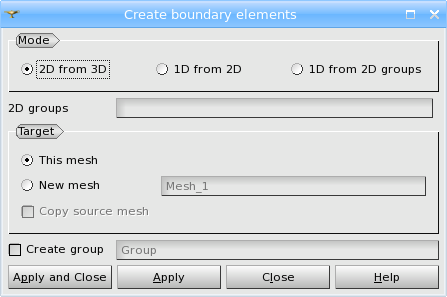
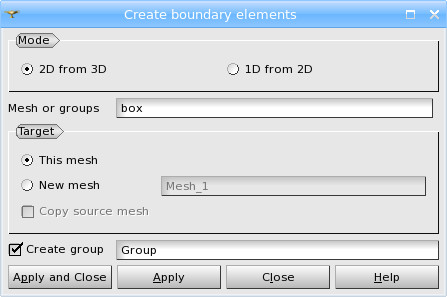
020749: EDF 1291 SMESH : Create 2D Mesh from 3D improvement / note 0011031

diff --git a/src/SMESHGUI/SMESH_msg_en.ts b/src/SMESHGUI/SMESH_msg_en.ts
@@ -5594,7 +5594,7 @@ It is impossible to read point coordinates from file</translation>
     </message>
     <message>
         <source>Groups</source>
-        <translation>2D groups</translation>
+        <translation>Mesh or groups</translation>
     </message>
     <message>
         <source>MODE</source>
@@ -5644,20 +5644,30 @@ It is impossible to read point coordinates from file</translation>
         <translation>%1 boundary elements have been added</translation>
     </message>
     <message>
+        <source>WRONG_GROUPS</source>
+        <translation>The following groups have not been processed
+as they are of improper type:
+%1</translation>
+    </message>
+    <message>
         <source>SMESH_ERR_NO_INPUT_MESH</source>
         <translation>Source mesh is not specified</translation>
     </message>
     <message>
-        <source>SMESH_ERR_NO_INPUT_GROUP</source>
-        <translation>2D group is not specified</translation>
+        <source>SMESH_TOO_MANY_MESHES</source>
+        <translation>Only one mesh can be processed at once</translation>
+    </message>
+    <message>
+        <source>SMESH_NOT_ONLY_GROUPS</source>
+        <translation>Can't process meshes and groups at once</translation>
     </message>
     <message>
         <source>SMESH_ERR_NO_3D_ELEMENTS</source>
-        <translation>The source object does not contain 3D elements</translation>
+        <translation>The source objects do not contain 3D elements</translation>
     </message>
     <message>
         <source>SMESH_ERR_NO_2D_ELEMENTS</source>
-        <translation>The source object does not contain 2D elements</translation>
+        <translation>The source objects do not contain 2D elements</translation>
     </message>
     <message>
         <source>SMESH_ERR_MESH_NAME_NOT_SPECIFIED</source>

diff --git a/src/SMESHGUI/SMESHGUI_Make2DFrom3DOp.h b/src/SMESHGUI/SMESHGUI_Make2DFrom3DOp.h
@@ -26,6 +26,7 @@
 #include "SMESH_SMESHGUI.hxx"
 #include "SMESHGUI_Dialog.h"
 #include "SMESHGUI_SelectionOp.h"
+#include "SMESH_TypeFilter.hxx"
 
 #include <SALOMEconfig.h>
 #include CORBA_SERVER_HEADER(SMESH_MeshEditor)
@@ -45,7 +46,7 @@ class SMESHGUI_EXPORT SMESHGUI_Make2DFrom3DDlg :  public SMESHGUI_Dialog
   Q_OBJECT
 
 public:
-  enum { Mesh, Groups };
+  enum { MeshOrGroups };
 
   SMESHGUI_Make2DFrom3DDlg( QWidget* );
   virtual ~SMESHGUI_Make2DFrom3DDlg();
@@ -55,6 +56,8 @@ public:
   bool                 needNewMesh() const;
   QString              getNewMeshName() const;
   void                 setNewMeshName( const QString& );
+  void                 setNewMeshEnabled( bool );
+  bool                 getNewMeshEnabled() const;
 
   bool                 needGroup() const;
   QString              getGroupName() const;
@@ -110,6 +113,9 @@ private:
 private:
   SMESH::SMESH_Mesh_var              mySrcMesh;
   QPointer<SMESHGUI_Make2DFrom3DDlg> myDlg;
+
+  SMESH_TypeFilter                   myMeshFilter;
+  SMESH_TypeFilter                   myGroupFilter;
 };
 
 #endif // SMESHGUI_Make2DFrom3DOp_H
